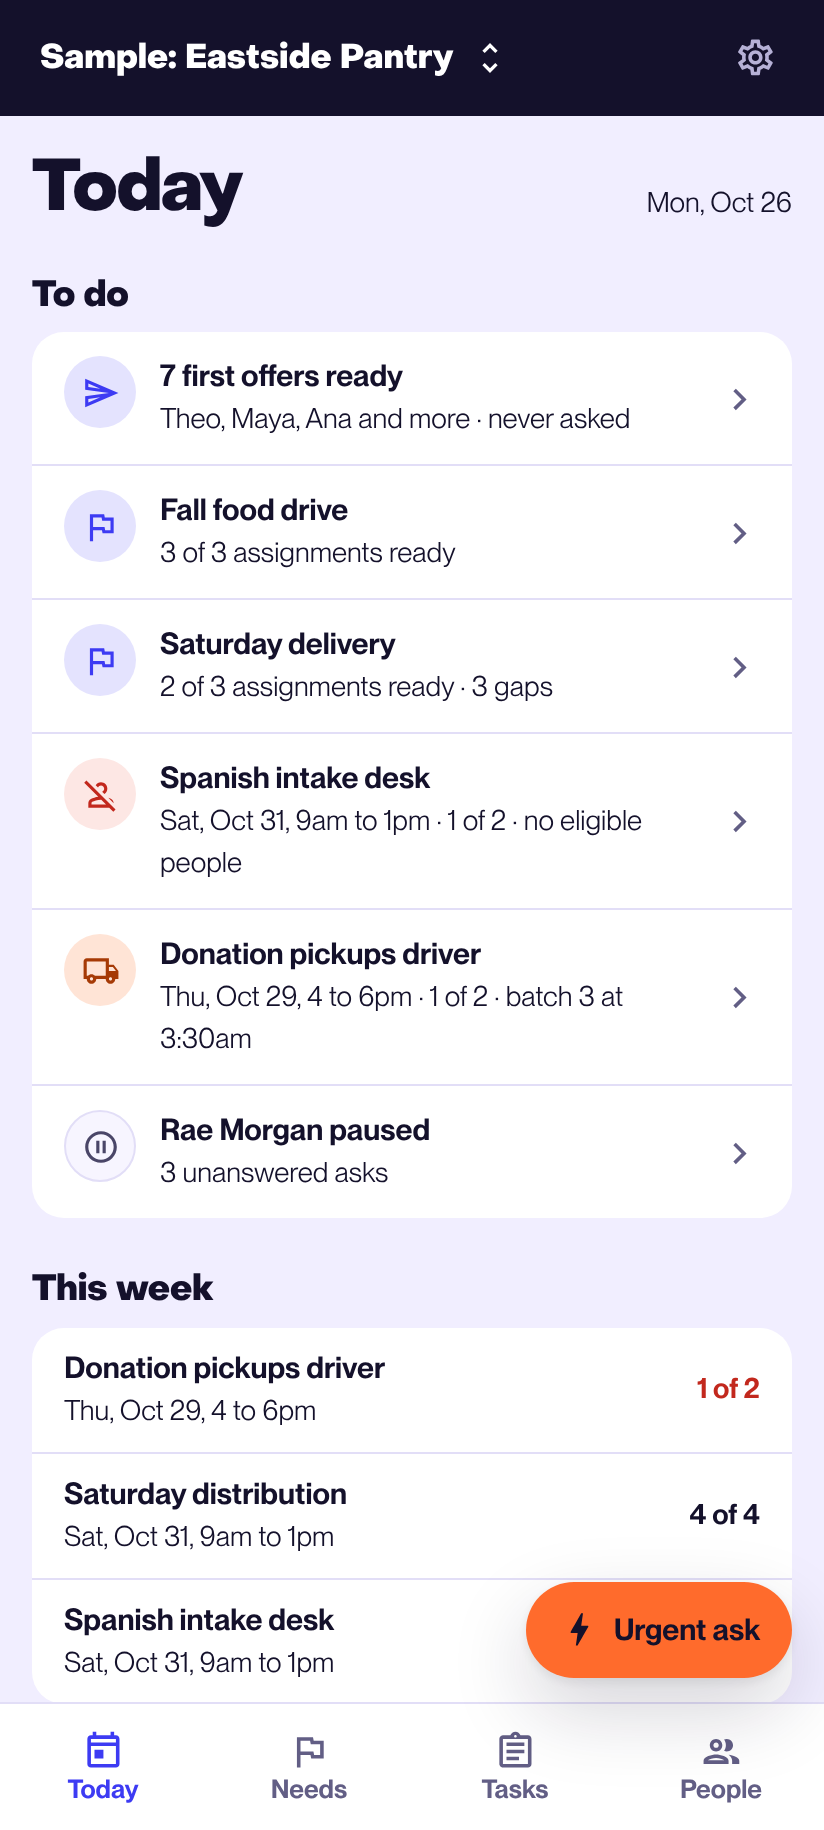
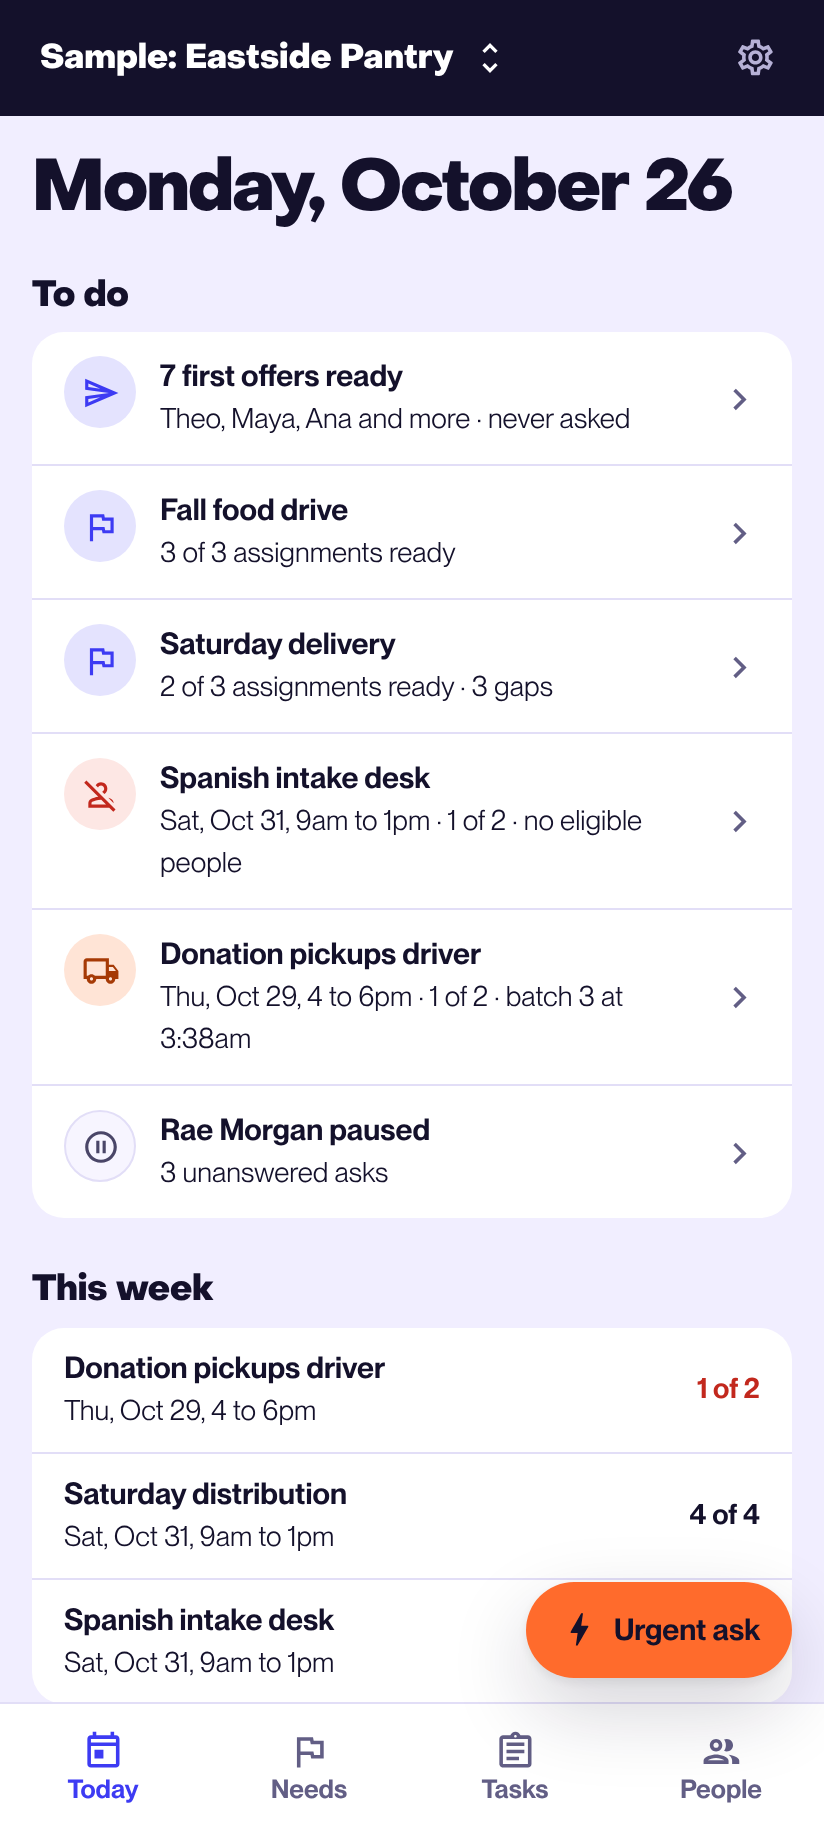
Use the date as the Today heading
Claude-Session: https://claude.ai/code/session_01AW59Qg3cWXuPZsvUvj5mwx

Changed region(s): [[0.0303, 0.0623, 0.7585, 0.1246], [0.7888, 0.0623, 0.9709, 0.1246], [0.2427, 0.5607, 0.3034, 0.5918]]

diff --git a/src/web/pages/Today.tsx b/src/web/pages/Today.tsx
@@ -86,10 +86,10 @@ export function Today() {
     .filter(Boolean) as NonNullable<ReturnType<typeof describe>>[];
   const go = (to: string) => navigate(`../${to}`, { relative: 'path' });
   const cap = data.capacity;
-  const date = new Date().toLocaleDateString('en-US', { weekday: 'short', month: 'short', day: 'numeric', timeZone: tz });
+  const date = new Date().toLocaleDateString('en-US', { weekday: 'long', month: 'long', day: 'numeric', timeZone: tz });
 
   return (
-    <Page title="Today" action={<Typography variant="body2" color="text.secondary" sx={{ pt: 0.75 }}>{date}</Typography>} width={880}>
+    <Page title={date} width={880}>
       <Typography variant="h2" component="h2" sx={{ mb: 1 }}>To do</Typography>
       <Card>
         {items.length === 0 && <Typography variant="body2" color="text.secondary" sx={{ p: 2.5 }}>Nothing to do</Typography>}
